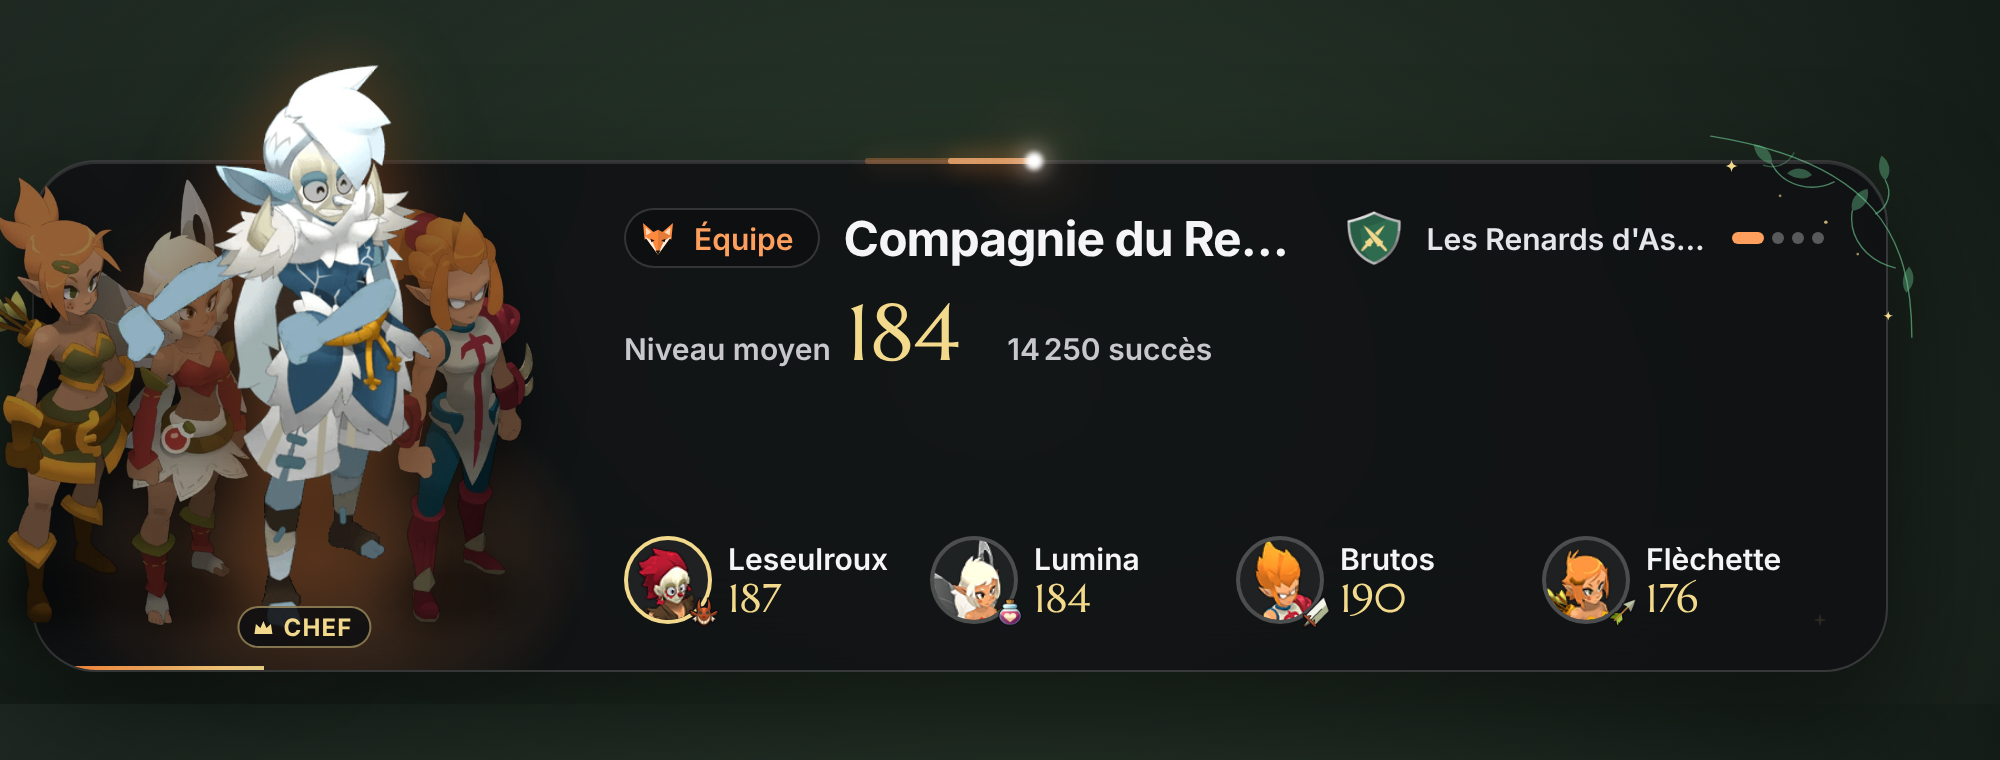
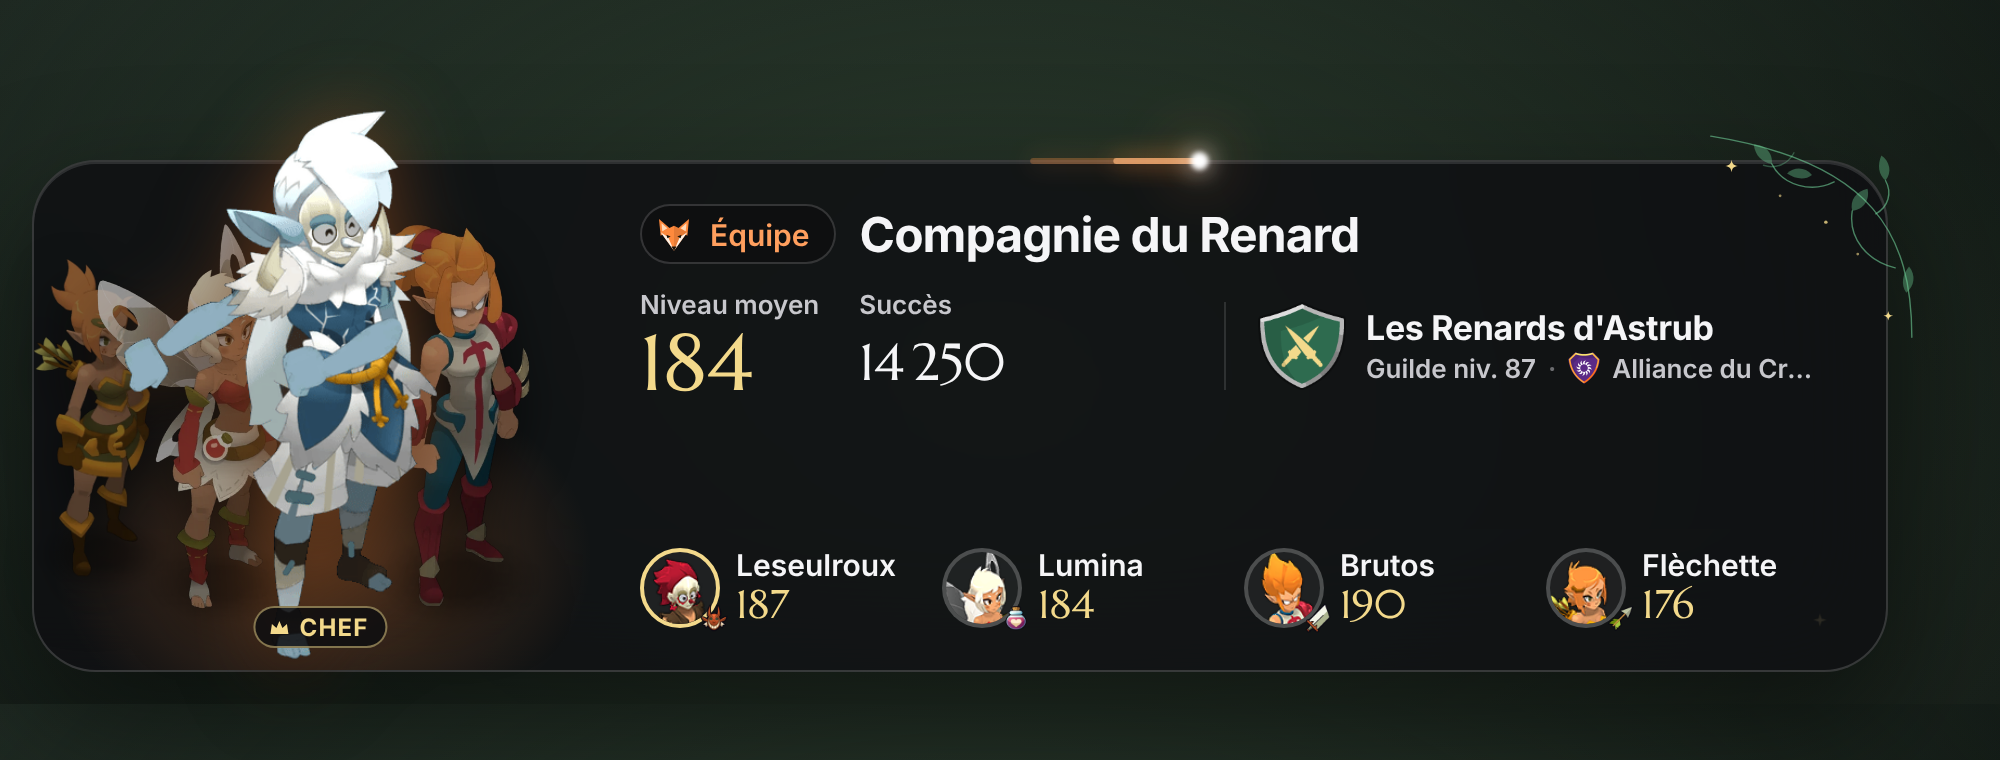
update readme and captures

diff --git a/README.md b/README.md
@@ -20,8 +20,8 @@
 
 Mon petit carnet d'Astrub est une application Windows pensée pour les joueurs de Dofus 3 qui streament.
 
-- **Carnet de personnages** : niveau, métiers, Dofus obtenus ou en cours, pour un personnage seul ou une équipe multicompte.
-- **Overlay Streamlabs** : une fiche compacte qui tourne entre plusieurs pages (personnage, Dofus, métiers, équipement), et des animations plein écran quand tu montes de niveau ou obtiens un Dofus.
+- **Carnet de personnages** : niveau, métiers, Dofus obtenus ou en cours, guilde et alliance, pour un personnage seul ou une équipe multicompte, avec une page résumé par personnage.
+- **Overlay Streamlabs** : une fiche compacte qui tourne entre plusieurs pages (personnage, Dofus, métiers, équipement), et des animations plein écran, avec leur son, quand tu montes de niveau ou obtiens un Dofus.
 - **Builds** : une bibliothèque de builds partagée par tous tes personnages ; chacun porte le sien (onglet Stuff de sa fiche), et l'overlay montre celui du personnage à l'écran.
 - **Tout reste sur ton PC** : pas de compte et pas de serveur. Tes données sont de simples fichiers dans `%APPDATA%\page-dofus`.
 
@@ -34,9 +34,12 @@ Mon petit carnet d'Astrub est une application Windows pensée pour les joueurs d
 | 0.3 | Métiers, Dofus, historique, objectifs, builds, personnages | Disponible |
 | 0.4 | Overlay Streamlabs et événements | Disponible |
 | 0.5 | Installeur et mises à jour automatiques | Disponible |
+| 0.6 | Suivi d'équipe, page résumé, guilde et alliance, sons des événements | Disponible |
+| 0.7 | Builder complet : caractéristiques, stats et totaux | Prévu |
+| 1.0 | Version finale | Prévu |
 
 <p align="center">
-  <img src="captures/fiche-metiers.png" width="900" alt="Fiche d'un personnage, onglet Métiers">
+  <img src="captures/fiche-resume.png" width="900" alt="Fiche d'un personnage, onglet Résumé">
 </p>
 <p align="center">
   <img src="captures/fiche-dofus.png" width="440" alt="Onglet Dofus">
@@ -47,6 +50,7 @@ Mon petit carnet d'Astrub est une application Windows pensée pour les joueurs d
   <img src="captures/fiche-stuff.png" width="440" alt="Onglet Stuff : le build porté par le personnage">
 </p>
 <p align="center">
+  <img src="captures/fiche-metiers.png" width="440" alt="Onglet Métiers">
   <img src="captures/personnages.png" width="440" alt="Écran Personnages">
 </p>
 
